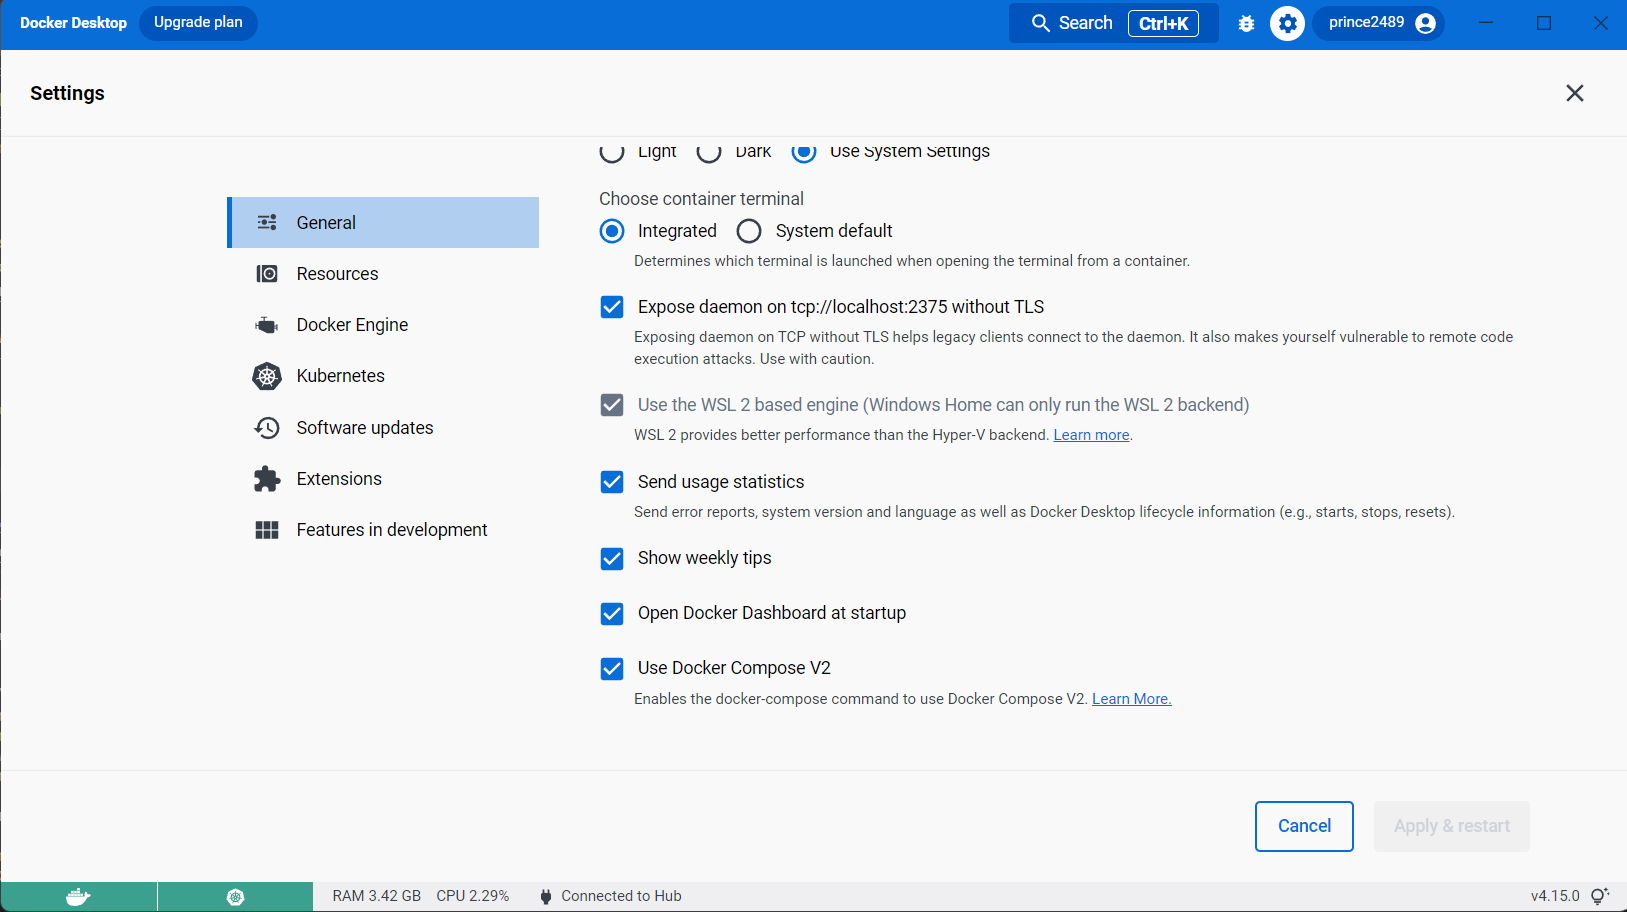
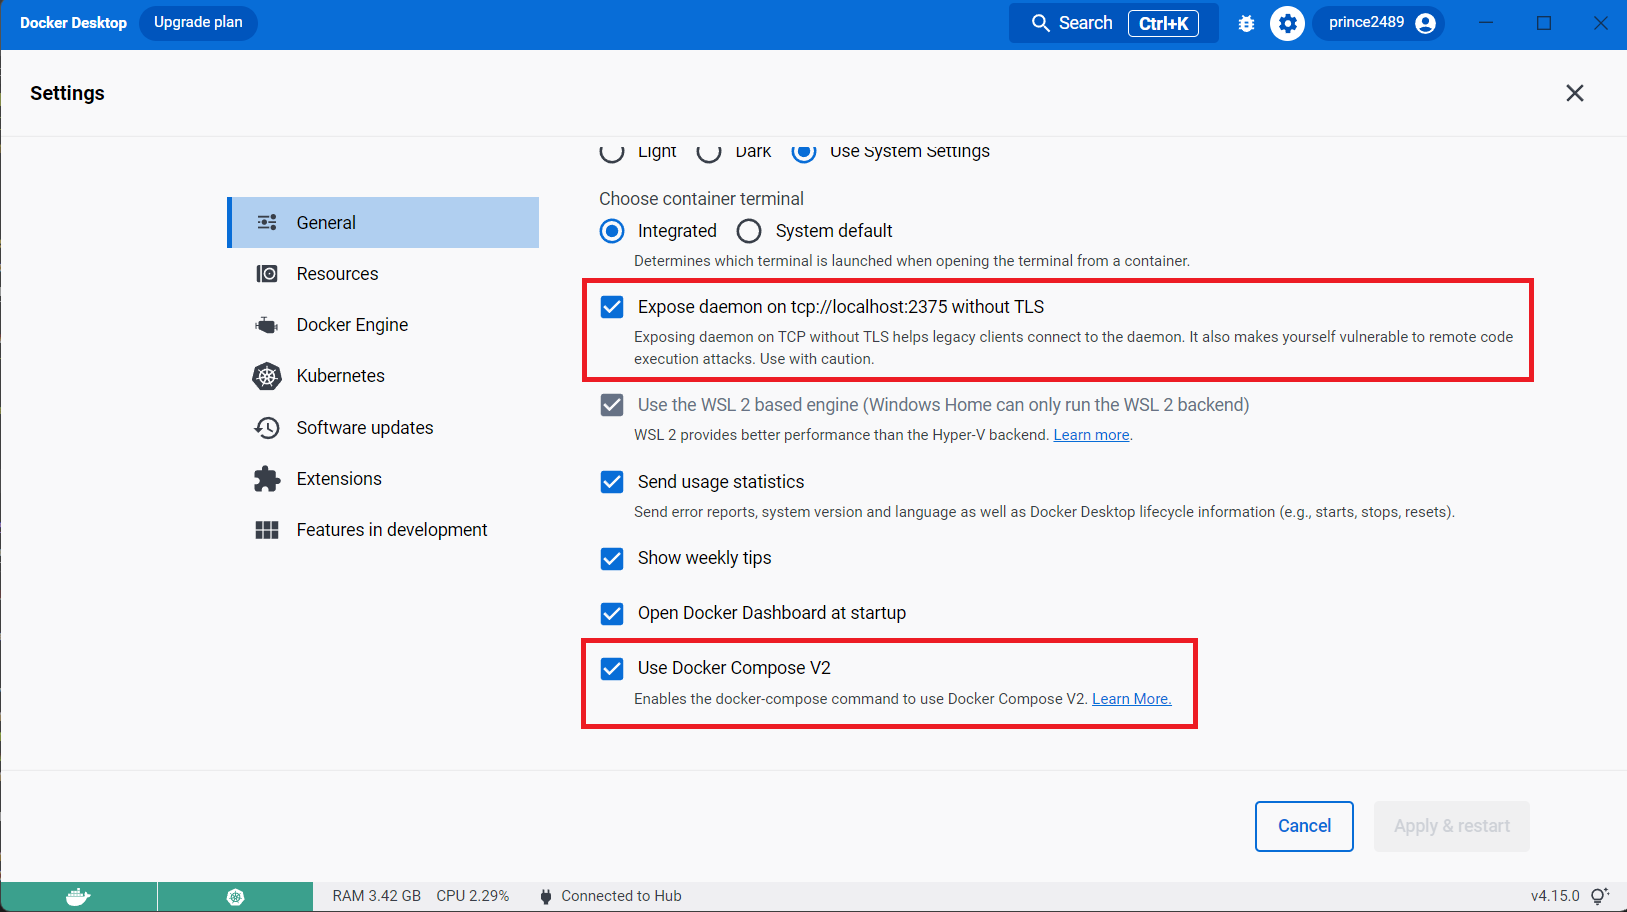
readme.md

diff --git a/README.md b/README.md
@@ -2,9 +2,10 @@
 ## This DevOps project can be implemented on laptop **(no cloud account required)** consist of following technologies-
 - Source Code Management as **GitHub**
 - Containerization tool - **Docker** (Docker Desktop on Windows/ Mac / Linux)
+- **Kubernetes** using docker-dekstop
 - CICD tool - **Jenkins**
 - IDE - **VScode, Pycharm**, etc (Recommended but not mandatory)
-- **Kubernetes** using docker-dekstop
+
 
 ## Git installation
 Download and install Git on your local machine - https://git-scm.com/downloads.
@@ -31,8 +32,34 @@ Windows users might face issue while starting docker-desktop, see below steps-
 - Refer below links-
     - https://learn.microsoft.com/en-us/windows/wsl/tutorials/wsl-containers
     - https://docs.docker.com/desktop/windows/wsl/
-image.pnghttps://github.com/devopswithprince/simple-devops-cicd-project/blob/main/_readme_images/docker-desktop1.png
-![alt text](https://github.com/devopswithprince/simple-devops-cicd-project/blob/main/_readme_images/docker-desktop1.png?raw=true)
+
+I recommend enabling below highlighted options inorder to run the project successfully-
+
+<p align="center">
+  <img src="https://github.com/devopswithprince/simple-devops-cicd-project/blob/main/_readme_images/docker-desktop1.png?raw=true" alt="Sublime's custom image"/>
+</p>
+
+- Daemon expose option is available in windows docker-desktop. Mac/Linux users can ignore
+
+<p align="center">
+  <img src="https://github.com/devopswithprince/simple-devops-cicd-project/blob/main/_readme_images/docker-desktop2.png?raw=true" alt="Sublime's custom image"/>
+</p>
+
+- Click on Apply & restart
+
+## Kubernetes configuration
+In above step, if you enable Kubernetes, a single node cluster will automatically get created.
+
+Please check if config file is created in below path-
+```bat
+Windows-
+C:\Users\give_your_user_account\.kube
+```
+```sh
+Mac or Linux-
+~./kube/
+```
+
 
 [![N|Solid](https://cldup.com/dTxpPi9lDf.thumb.png)](https://nodesource.com/products/nsolid)
 
@@ -144,7 +171,7 @@ gulp watch
 (optional) Third:
 
 ```sh
-karma test
+karma test 
 ```
 
 #### Building for source
